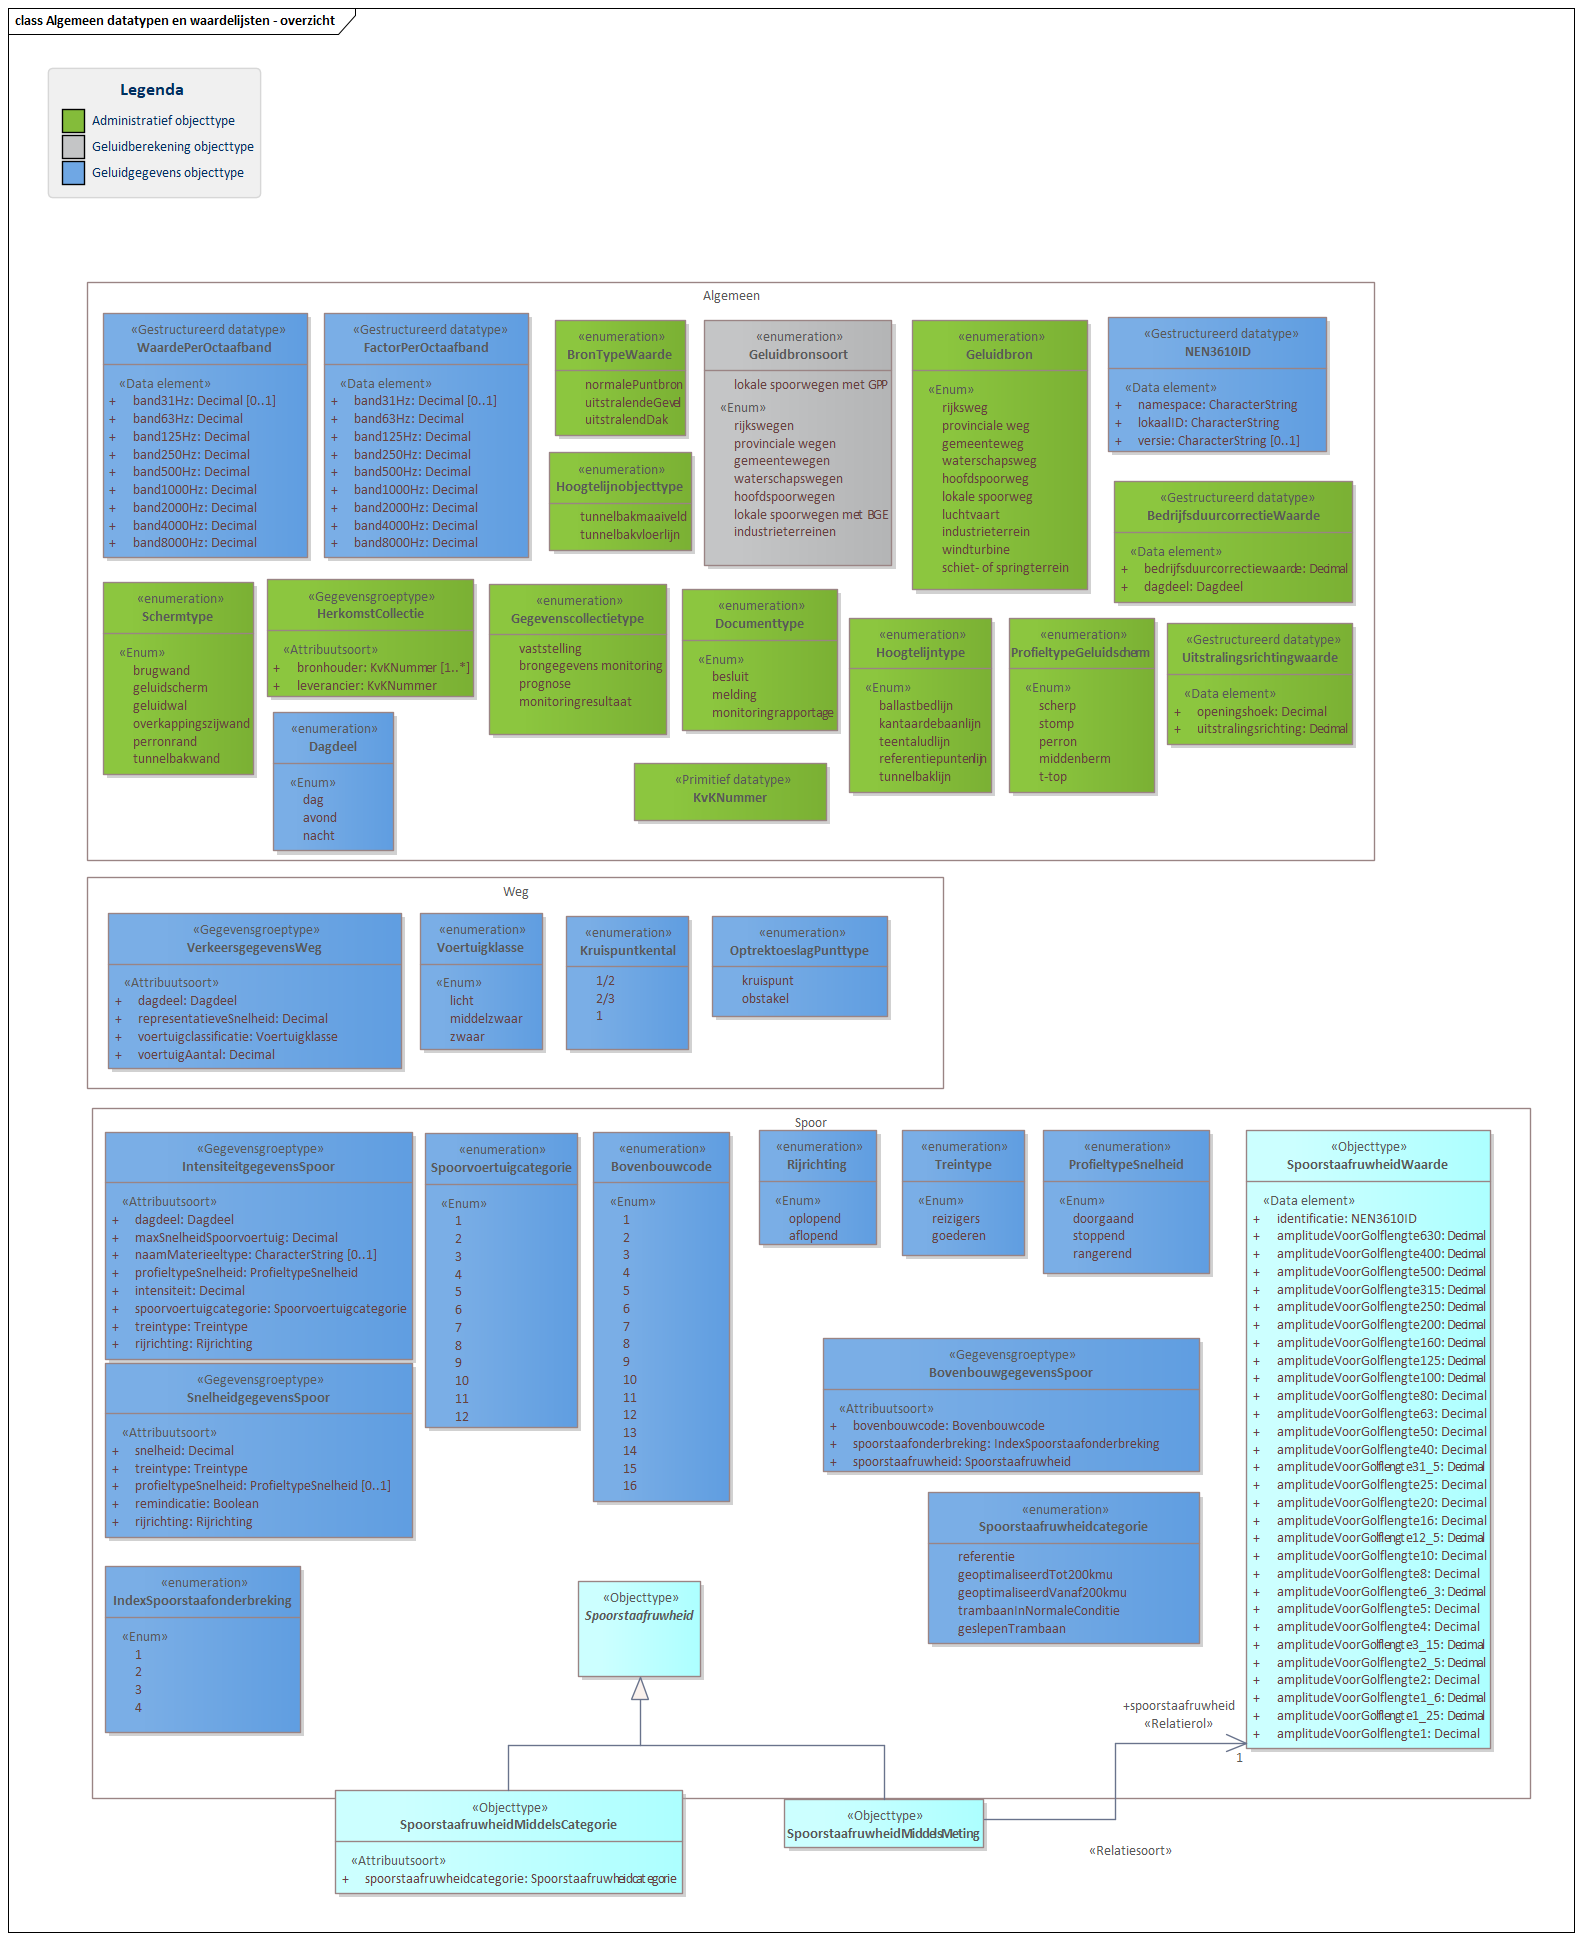
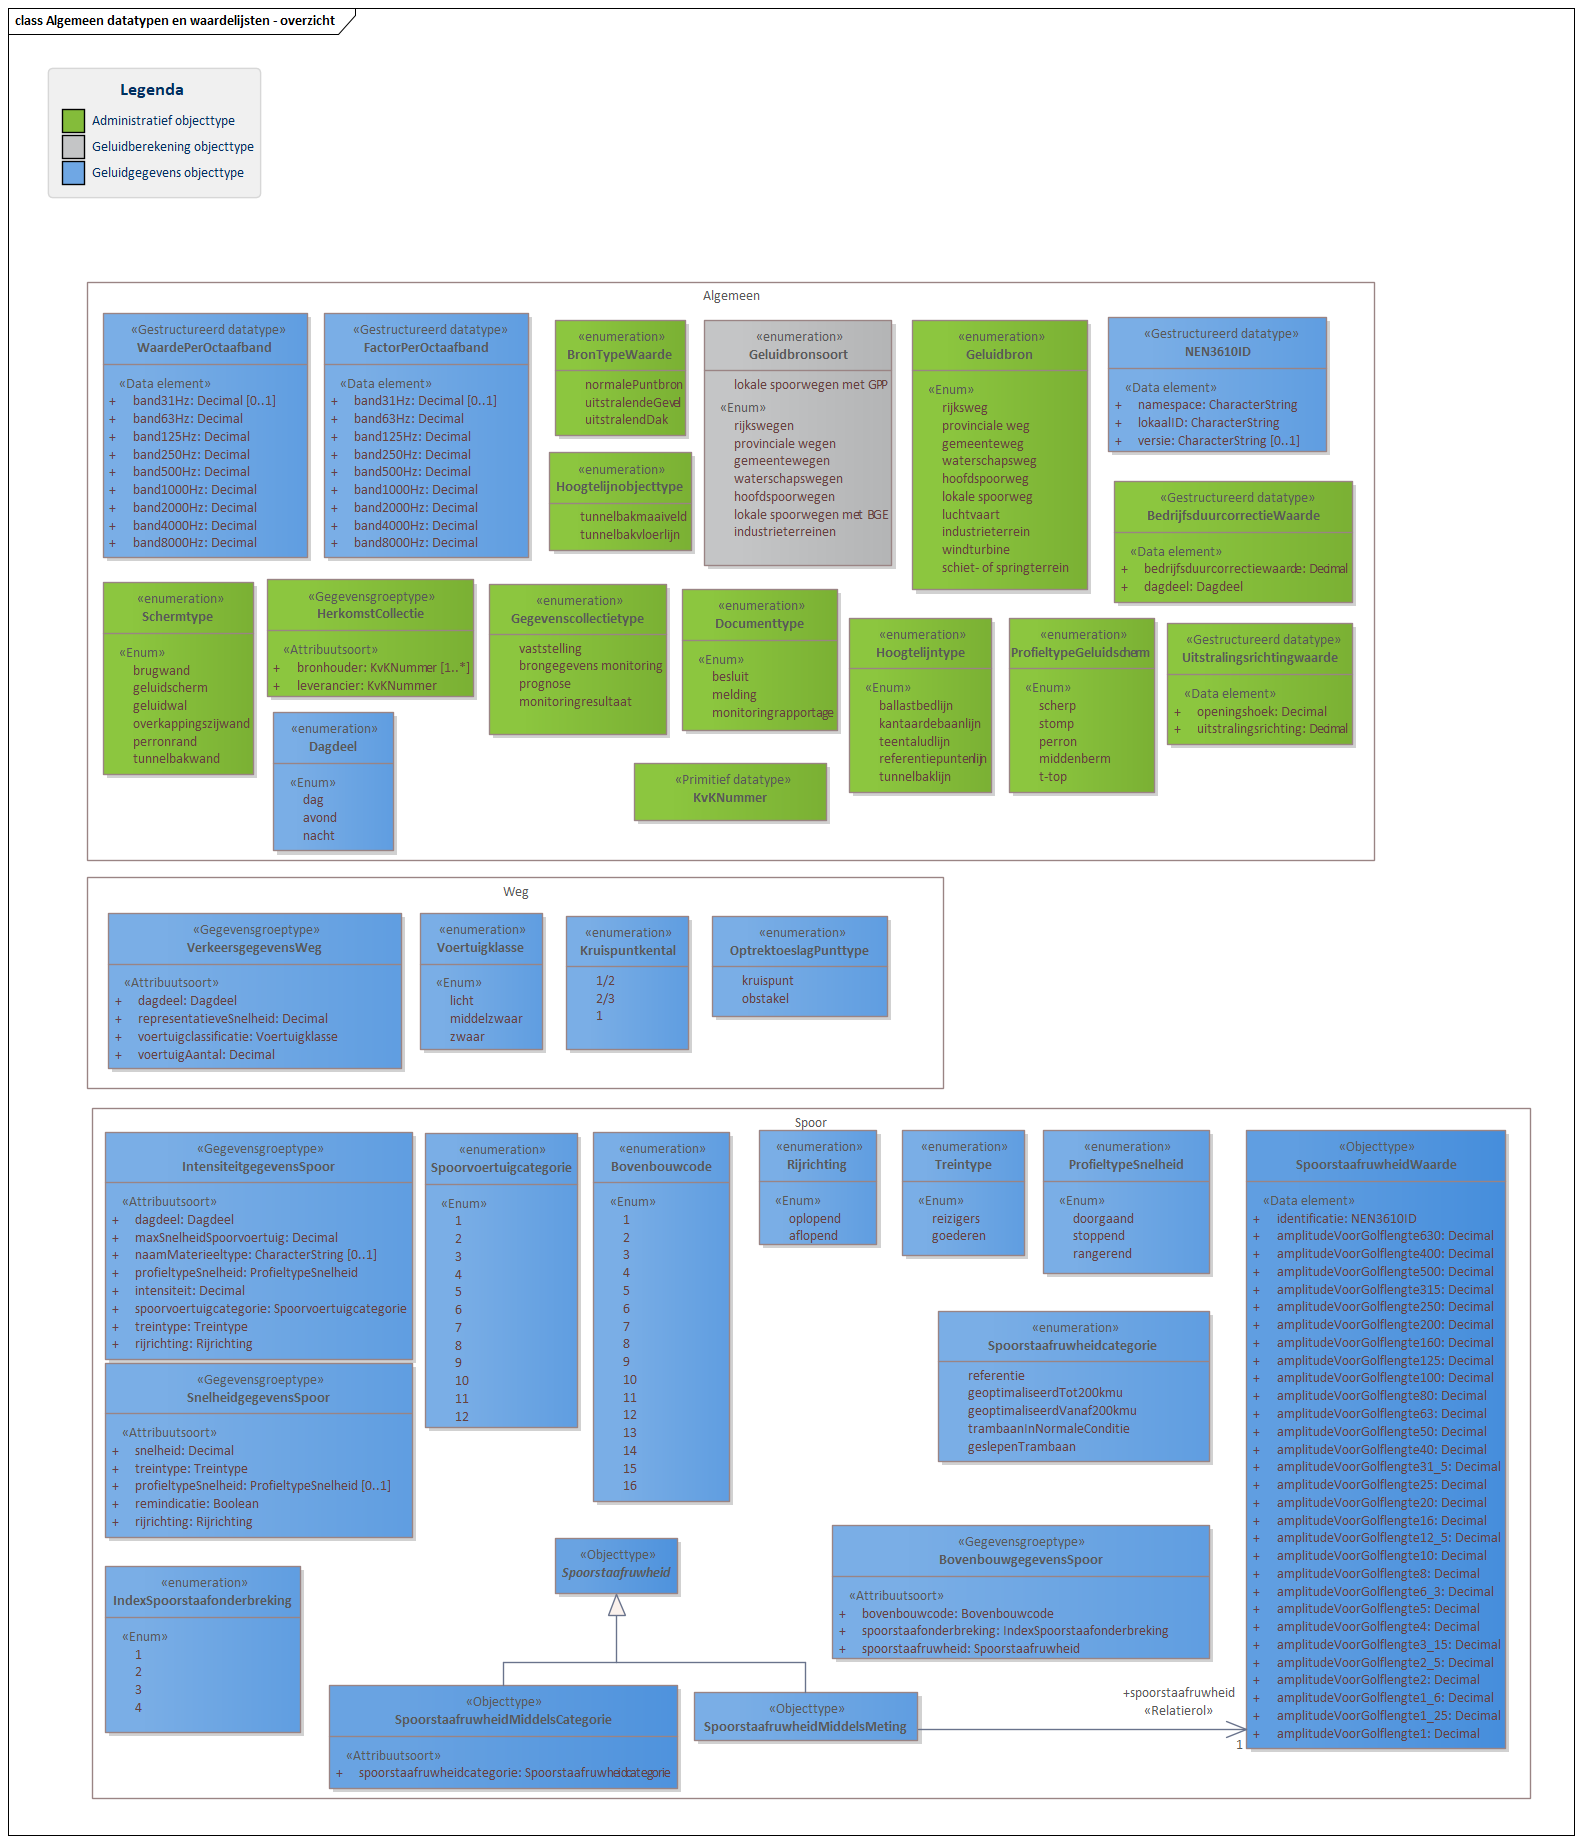
MIMLM-InformatiemodelGeluid-1.1-0-20210521-20211026-174456

diff --git a/data/IMG-cat.respec.html b/data/IMG-cat.respec.html
@@ -1,7 +1,7 @@
 
 <!DOCTYPE HTML><section id="cat" class="normative">
    <h2>Gegevensdefinitie</h2>
-   <!--MIMLM-InformatiemodelGeluid-1.1-0-20210521-20211026-174126 imvertor 1.65.2-->
+   <!--MIMLM-InformatiemodelGeluid-1.1-0-20210521-20211026-174456 imvertor 1.65.2-->
    <section id="EAID_66AE8FA2_74FC_4d4d_B2B2_249C8D6A651F">
       <h3>   Basismodel - overzicht</h3>
       <div class="imageinfo overview"><img src="data/Images/EAID_66AE8FA2_74FC_4d4d_B2B2_249C8D6A651F.png" usemap="#imagemap-EAID_66AE8FA2_74FC_4d4d_B2B2_249C8D6A651F" alt="Diagram &#xA;                        Het Basismodel vormt de samenhang tussen alle domeinen van het IMGeluid. Alle objecttypen en relaties uit het IMGeluid komen samen in een Geluidgegevenscollectie.&#xA;                        Binnen het IMGeluid worden geluidbrongegevens die gebruikt worden voor GPP en BGE berekeningen, gemodelleerd als een Geluidemissie of Geluidoverdrachtobject. De resultaten van GPP of BGE berekeningen worden opgeslagen in een Geluidgegevenscollectie. De onderliggende juridische vastleggingen, vaststellingen, of monitoringsverslagen van deze omgevings- of monitoringswaarden, worden ook opgeslagen in dezelfde Geluidgegevenscollectie.&#xA;                        Per geluidbron per toepassing kan er een Geluidgegevenscollectie bestaan. Deze kan geassocieerd worden met maximaal 1 Geluidaandachtsgebied. Wanneer geluidgegevens met betrekking tot cumulatieberekeningen worden aangeleverd, bevat een Geluidgegevenscollectie geen Geluidaandachtsgebied.&#xA;                        &#xA;                        # test&#xA;                        &#xA;                        Klik met de rechtermuisknop op het diagram om de afbeelding op volledige grote in een nieuw tabblad te openen.&#xA;                     "><map name="imagemap-EAID_66AE8FA2_74FC_4d4d_B2B2_249C8D6A651F"><area shape="rect" alt="GeluidgegevenscollectieElement" coords="411,164,648,268" href="#graph_EAID_924BD078_D715_461a_B7E9_D7176A7406E0"><area shape="rect" alt="Monitoringresultaat" coords="664,812,943,963" href="#graph_EAID_BA00B77B_D408_4590_8185_CE59E5838F1E"><area shape="rect" alt="Basisgeluidemissieobject" coords="217,772,522,909" href="#graph_EAID_9AD15457_4880_42e5_8C72_4E5EFAC91B15"><area shape="rect" alt="Geluidproductieplafondobject" coords="1160,508,1446,772" href="#graph_EAID_237408F8_8CE9_4828_B8FB_1A5B8C917622"><area shape="rect" alt="Geluidberekeningobject" coords="678,1071,992,1271" href="#graph_EAID_97ED59FE_9FCA_49a6_8F07_214E48000B76"><area shape="rect" alt="Documentverwijzing" coords="711,391,968,566" href="#graph_EAID_7E137496_1028_4af5_9367_569358A2167B"><area shape="rect" alt="Geluidaandachtsgebied" coords="1231,284,1477,424" href="#graph_EAID_B06128AC_518C_4e26_88E5_14ED5A050A19"><area shape="rect" alt="Geluidgegevenscollectie" coords="812,68,1155,297" href="#graph_EAID_313C5AF9_49B8_4860_9E65_DE7C70084864"><area shape="rect" alt="Geluidemissieobject" coords="171,365,437,525" href="#graph_EAID_361C96BA_A638_494e_80BA_590ED481A81B"><area shape="rect" alt="Geluidoverdrachtobject" coords="197,549,476,686" href="#graph_EAID_2FEA326B_B7E7_48a4_B50F_00CCB2694677"></map><p><b>Basismodel - overzicht</b>
@@ -159,7 +159,7 @@
    </section>
    <section id="EAID_6CCCDEA4_4D5E_407f_A06B_3D2E5CD4D5B7">
       <h3>   Algemeen datatypen en waardelijsten - overzicht</h3>
-      <div class="imageinfo overview"><img src="data/Images/EAID_6CCCDEA4_4D5E_407f_A06B_3D2E5CD4D5B7.png" usemap="#imagemap-EAID_6CCCDEA4_4D5E_407f_A06B_3D2E5CD4D5B7" alt="Diagram &#xA;                        &#xA;                     "><map name="imagemap-EAID_6CCCDEA4_4D5E_407f_A06B_3D2E5CD4D5B7"><area shape="rect" alt="SpoorstaafruwheidMiddelsMeting" coords="784,1799,984,1848" href="#graph_EAID_477FC880_34DC_46fb_8ABC_1BE75029EB19"><area shape="rect" alt="SpoorstaafruwheidMiddelsCategorie" coords="335,1790,683,1894" href="#graph_EAID_26C69E60_CC91_4b9d_9835_BDCFE1B1EF21"><area shape="rect" alt="Spoorstaafruwheid" coords="578,1581,701,1677" href="#graph_EAID_0AB8B11D_AF5F_429f_95F9_D384A2349E44"><area shape="rect" alt="SpoorstaafruwheidWaarde" coords="1246,1130,1491,1749" href="#graph_EAID_E5D9E12A_27B9_417c_ABEB_2149C046EBE0"><area shape="rect" alt="Schermtype" coords="103,582,254,775" href="#graph_EAID_C9ACE184_6E2B_40c1_ACE0_A7C5EE554EF9"><area shape="rect" alt="Hoogtelijntype" coords="849,618,992,793" href="#graph_EAID_46116480_7260_453f_A7D6_80B6C72C8BDC"><area shape="rect" alt="ProfieltypeGeluidscherm" coords="1009,618,1155,793" href="#graph_EAID_F76303B4_A75E_4671_8977_C4719B32F932"><area shape="rect" alt="Hoogtelijnobjecttype" coords="549,452,692,551" href="#graph_EAID_2C63527A_74A7_4248_A10B_74D236BA4163"><area shape="rect" alt="BronTypeWaarde" coords="555,320,686,436" href="#graph_EAID_4858CC05_8BCF_466f_A2F4_B8B01BEF16A6"><area shape="rect" alt="BedrijfsduurcorrectieWaarde" coords="1114,481,1353,603" href="#graph_EAID_EC155AB1_EEFE_4a82_BEF9_003F0872B893"><area shape="rect" alt="Uitstralingsrichtingwaarde" coords="1167,623,1353,745" href="#graph_EAID_C522F5BC_D298_4887_8030_D6271385F840"><area shape="rect" alt="Kruispuntkental" coords="566,916,689,1050" href="#graph_EAID_951E9EFA_E876_44d0_B49F_86C07099E21F"><area shape="rect" alt="OptrektoeslagPunttype" coords="712,916,888,1017" href="#graph_EAID_9A9D8D19_D8A0_4241_A6F6_5B7E0D4C7E58"><area shape="rect" alt="IndexSpoorstaafonderbreking" coords="105,1566,301,1733" href="#graph_EAID_89531B10_996F_4085_93AC_36BCCB16C95D"><area shape="rect" alt="Spoorstaafruwheidcategorie" coords="928,1492,1200,1644" href="#graph_EAID_01C33249_C871_41b9_8872_4135A5E35943"><area shape="rect" alt="Voertuigklasse" coords="420,913,543,1050" href="#graph_EAID_26C18A71_6F81_4654_8495_3E28EE752A22"><area shape="rect" alt="NEN3610ID" coords="1108,317,1327,452" href="#graph_EAID_3F873D6C_1774_46ea_A631_862E358016E9"><area shape="rect" alt="Spoorvoertuigcategorie" coords="425,1133,578,1428" href="#graph_EAID_C59D8682_FC4E_4844_9466_C17945725615"><area shape="rect" alt="Bovenbouwcode" coords="593,1132,730,1502" href="#graph_EAID_E26FD10C_DEC5_4394_B498_B9522FAC3DA4"><area shape="rect" alt="Gegevenscollectietype" coords="489,584,667,735" href="#graph_EAID_B6773E1F_22D6_4682_B531_6A2D392A2B3C"><area shape="rect" alt="Documenttype" coords="682,589,838,731" href="#graph_EAID_30A82434_4787_4191_A68D_023591D3D78E"><area shape="rect" alt="Dagdeel" coords="273,712,394,851" href="#graph_EAID_00122B9B_F5D7_4dbc_8F39_D0F426DF8C39"><area shape="rect" alt="BovenbouwgegevensSpoor" coords="823,1338,1200,1472" href="#graph_EAID_B5BBEDFE_C275_4c9f_BFF4_0440A0F7820B"><area shape="rect" alt="HerkomstCollectie" coords="267,579,474,697" href="#graph_EAID_0CBE6FF8_C5CF_452f_A268_2364394E4268"><area shape="rect" alt="ProfieltypeSnelheid" coords="1043,1130,1210,1274" href="#graph_EAID_2890B73C_6675_493b_8DE3_B0E30C61DBD1"><area shape="rect" alt="Treintype" coords="902,1130,1025,1256" href="#graph_EAID_11918723_A26B_4cbd_BC37_F6914A4A4A4E"><area shape="rect" alt="Rijrichting" coords="759,1130,877,1245" href="#graph_EAID_91B9181F_C621_4819_83E0_1A31A9EBCF7F"><area shape="rect" alt="IntensiteitgegevensSpoor" coords="105,1132,413,1360" href="#graph_EAID_5FFCEE29_DD71_45db_926C_AB9A7E8677F3"><area shape="rect" alt="SnelheidgegevensSpoor" coords="105,1363,413,1538" href="#graph_EAID_00CB7C0F_9A33_426c_90AE_DAAF97D29F7F"><area shape="rect" alt="VerkeersgegevensWeg" coords="108,913,402,1069" href="#graph_EAID_A5AB50E8_5A98_4426_A89E_F5C9D91CF6F8"><area shape="rect" alt="FactorPerOctaafband" coords="324,313,529,558" href="#graph_EAID_2E128FCF_DE66_4517_86D2_331E9E0C46EE"><area shape="rect" alt="WaardePerOctaafband" coords="103,313,308,558" href="#graph_EAID_7AE14E60_44F9_4af5_A8D1_D005D44A25BE"><area shape="rect" alt="Geluidbron" coords="912,320,1088,590" href="#graph_EAID_6FABE66F_BDF5_4771_AEE2_5B9B0C9199C2"><area shape="rect" alt="Geluidbronsoort" coords="704,320,892,566" href="#graph_EAID_16AB414E_37DD_460d_AEAE_00A62748E617"></map><p><b>Algemeen datatypen en waardelijsten - overzicht</b></p>
+      <div class="imageinfo overview"><img src="data/Images/EAID_6CCCDEA4_4D5E_407f_A06B_3D2E5CD4D5B7.png" usemap="#imagemap-EAID_6CCCDEA4_4D5E_407f_A06B_3D2E5CD4D5B7" alt="Diagram &#xA;                        &#xA;                     "><map name="imagemap-EAID_6CCCDEA4_4D5E_407f_A06B_3D2E5CD4D5B7"><area shape="rect" alt="SpoorstaafruwheidMiddelsMeting" coords="694,1692,918,1741" href="#graph_EAID_477FC880_34DC_46fb_8ABC_1BE75029EB19"><area shape="rect" alt="SpoorstaafruwheidMiddelsCategorie" coords="329,1685,678,1789" href="#graph_EAID_26C69E60_CC91_4b9d_9835_BDCFE1B1EF21"><area shape="rect" alt="Spoorstaafruwheid" coords="555,1538,678,1594" href="#graph_EAID_0AB8B11D_AF5F_429f_95F9_D384A2349E44"><area shape="rect" alt="SpoorstaafruwheidWaarde" coords="1246,1130,1506,1749" href="#graph_EAID_E5D9E12A_27B9_417c_ABEB_2149C046EBE0"><area shape="rect" alt="Schermtype" coords="103,582,254,775" href="#graph_EAID_C9ACE184_6E2B_40c1_ACE0_A7C5EE554EF9"><area shape="rect" alt="Hoogtelijntype" coords="849,618,992,793" href="#graph_EAID_46116480_7260_453f_A7D6_80B6C72C8BDC"><area shape="rect" alt="ProfieltypeGeluidscherm" coords="1009,618,1155,793" href="#graph_EAID_F76303B4_A75E_4671_8977_C4719B32F932"><area shape="rect" alt="Hoogtelijnobjecttype" coords="549,452,692,551" href="#graph_EAID_2C63527A_74A7_4248_A10B_74D236BA4163"><area shape="rect" alt="BronTypeWaarde" coords="555,320,686,436" href="#graph_EAID_4858CC05_8BCF_466f_A2F4_B8B01BEF16A6"><area shape="rect" alt="BedrijfsduurcorrectieWaarde" coords="1114,481,1353,603" href="#graph_EAID_EC155AB1_EEFE_4a82_BEF9_003F0872B893"><area shape="rect" alt="Uitstralingsrichtingwaarde" coords="1167,623,1353,745" href="#graph_EAID_C522F5BC_D298_4887_8030_D6271385F840"><area shape="rect" alt="Kruispuntkental" coords="566,916,689,1050" href="#graph_EAID_951E9EFA_E876_44d0_B49F_86C07099E21F"><area shape="rect" alt="OptrektoeslagPunttype" coords="712,916,888,1017" href="#graph_EAID_9A9D8D19_D8A0_4241_A6F6_5B7E0D4C7E58"><area shape="rect" alt="IndexSpoorstaafonderbreking" coords="105,1566,301,1733" href="#graph_EAID_89531B10_996F_4085_93AC_36BCCB16C95D"><area shape="rect" alt="Spoorstaafruwheidcategorie" coords="938,1311,1210,1462" href="#graph_EAID_01C33249_C871_41b9_8872_4135A5E35943"><area shape="rect" alt="Voertuigklasse" coords="420,913,543,1050" href="#graph_EAID_26C18A71_6F81_4654_8495_3E28EE752A22"><area shape="rect" alt="NEN3610ID" coords="1108,317,1327,452" href="#graph_EAID_3F873D6C_1774_46ea_A631_862E358016E9"><area shape="rect" alt="Spoorvoertuigcategorie" coords="425,1133,578,1428" href="#graph_EAID_C59D8682_FC4E_4844_9466_C17945725615"><area shape="rect" alt="Bovenbouwcode" coords="593,1132,730,1502" href="#graph_EAID_E26FD10C_DEC5_4394_B498_B9522FAC3DA4"><area shape="rect" alt="Gegevenscollectietype" coords="489,584,667,735" href="#graph_EAID_B6773E1F_22D6_4682_B531_6A2D392A2B3C"><area shape="rect" alt="Documenttype" coords="682,589,838,731" href="#graph_EAID_30A82434_4787_4191_A68D_023591D3D78E"><area shape="rect" alt="Dagdeel" coords="273,712,394,851" href="#graph_EAID_00122B9B_F5D7_4dbc_8F39_D0F426DF8C39"><area shape="rect" alt="BovenbouwgegevensSpoor" coords="832,1525,1210,1659" href="#graph_EAID_B5BBEDFE_C275_4c9f_BFF4_0440A0F7820B"><area shape="rect" alt="HerkomstCollectie" coords="267,579,474,697" href="#graph_EAID_0CBE6FF8_C5CF_452f_A268_2364394E4268"><area shape="rect" alt="ProfieltypeSnelheid" coords="1043,1130,1210,1274" href="#graph_EAID_2890B73C_6675_493b_8DE3_B0E30C61DBD1"><area shape="rect" alt="Treintype" coords="902,1130,1025,1256" href="#graph_EAID_11918723_A26B_4cbd_BC37_F6914A4A4A4E"><area shape="rect" alt="Rijrichting" coords="759,1130,877,1245" href="#graph_EAID_91B9181F_C621_4819_83E0_1A31A9EBCF7F"><area shape="rect" alt="IntensiteitgegevensSpoor" coords="105,1132,413,1360" href="#graph_EAID_5FFCEE29_DD71_45db_926C_AB9A7E8677F3"><area shape="rect" alt="SnelheidgegevensSpoor" coords="105,1363,413,1538" href="#graph_EAID_00CB7C0F_9A33_426c_90AE_DAAF97D29F7F"><area shape="rect" alt="VerkeersgegevensWeg" coords="108,913,402,1069" href="#graph_EAID_A5AB50E8_5A98_4426_A89E_F5C9D91CF6F8"><area shape="rect" alt="FactorPerOctaafband" coords="324,313,529,558" href="#graph_EAID_2E128FCF_DE66_4517_86D2_331E9E0C46EE"><area shape="rect" alt="WaardePerOctaafband" coords="103,313,308,558" href="#graph_EAID_7AE14E60_44F9_4af5_A8D1_D005D44A25BE"><area shape="rect" alt="Geluidbron" coords="912,320,1088,590" href="#graph_EAID_6FABE66F_BDF5_4771_AEE2_5B9B0C9199C2"><area shape="rect" alt="Geluidbronsoort" coords="704,320,892,566" href="#graph_EAID_16AB414E_37DD_460d_AEAE_00A62748E617"></map><p><b>Algemeen datatypen en waardelijsten - overzicht</b></p>
       </div>
    </section>
    <section id="">
@@ -25057,7 +25057,7 @@
 </section>
 <section id="lis" class="normative">
    <h2>Inhoud van waardenlijsten</h2>
-   <!--MIMLM-InformatiemodelGeluid-1.1-0-20210521-20211026-174126 imvertor 1.65.2--><a class="anchor" id="graph_EAID_C9ACE184_6E2B_40c1_ACE0_A7C5EE554EF9"></a><a class="anchor" id="detail_class_IMGeluidAlgemeen_Schermtype"></a><section id="detail_class_IMGeluidAlgemeen_Schermtype">
+   <!--MIMLM-InformatiemodelGeluid-1.1-0-20210521-20211026-174456 imvertor 1.65.2--><a class="anchor" id="graph_EAID_C9ACE184_6E2B_40c1_ACE0_A7C5EE554EF9"></a><a class="anchor" id="detail_class_IMGeluidAlgemeen_Schermtype"></a><section id="detail_class_IMGeluidAlgemeen_Schermtype">
       <h3>Enumeratie details  Schermtype</h3>
       
       <table style="width: 100%;" class="list">
